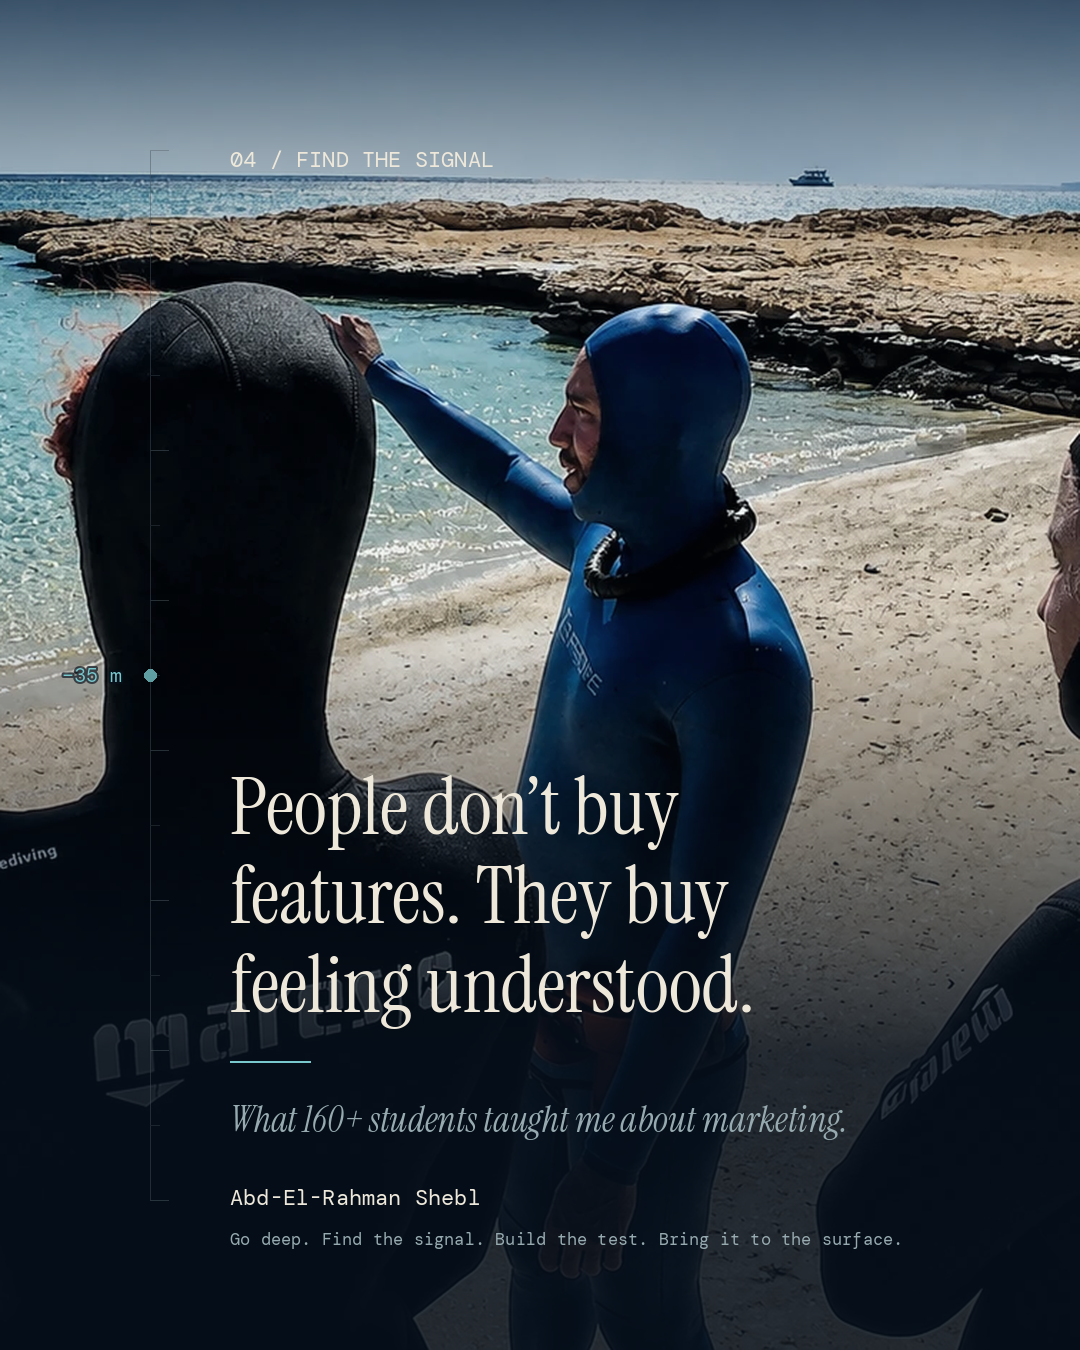
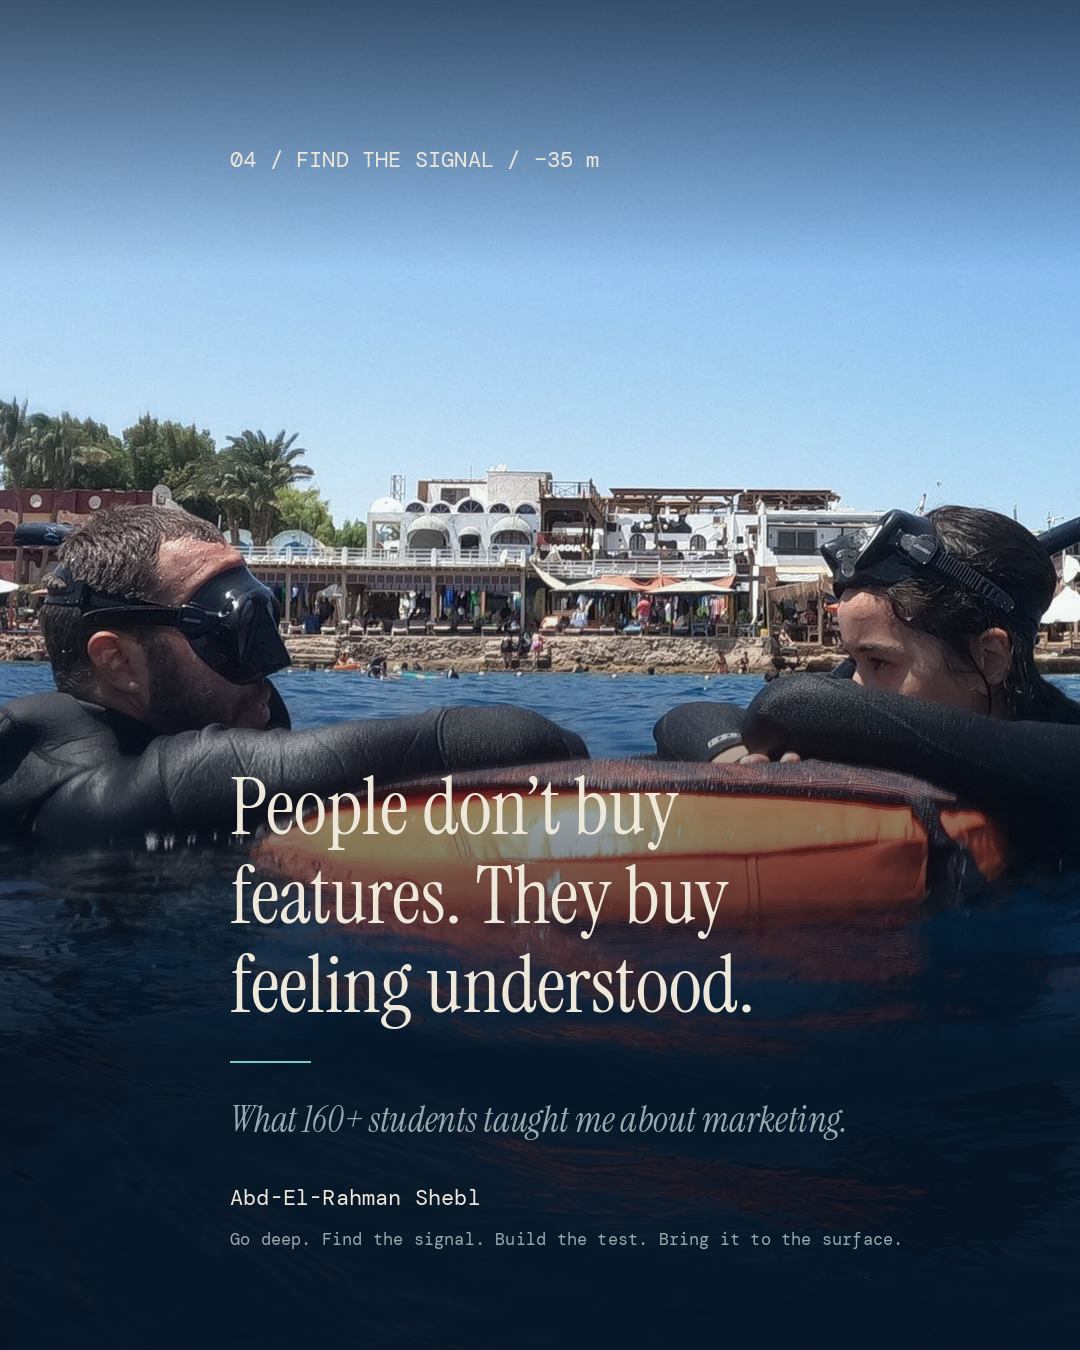
LinkedIn studio: post 04 uses the buoy photo with a student
Claude-Session: https://claude.ai/code/session_017LSm8ADBcaHVjFRtYg6f1o

diff --git a/linkedin-studio/posts-log.md b/linkedin-studio/posts-log.md
@@ -8,7 +8,7 @@ Fill in results 48 h after posting. Review what works after 4 weeks (around 3 De
 | 01 | GO DEEP | 5 m | photo overlay (shebl.jpg) | Thu 5 Nov 2026 | | | | | | ready |
 | 02 | GO DEEP | 15 m | photo overlay (commx-49.jpg, with a student) | Tue 10 Nov 2026 | | | | | | ready |
 | 03 | GO DEEP | 25 m | photo overlay (you + buddy at the platform) | Thu 12 Nov 2026 | | | | | | ready |
-| 04 | FIND THE SIGNAL | 35 m | photo overlay (teaching on the beach, students from behind) | Tue 17 Nov 2026 | | | | | | ready |
+| 04 | FIND THE SIGNAL | 35 m | photo overlay (tr-openwater.jpg, you + student at the buoy) | Tue 17 Nov 2026 | | | | | | ready |
 | 05 | BUILD THE TEST | 45 m | photo clean (reef canyon) + graphic | Thu 19 Nov 2026 | | | | | | ready; first clear ask |
 | 06 | BUILD THE TEST | 55 m | site mockup (desktop + phone) + graphic | Tue 24 Nov 2026 | | | | | | ready |
 | 07 | GO DEEP | 65 m | photo clean (you on the line) + graphic | Thu 26 Nov 2026 | | | | | | draft, awaiting approval |
